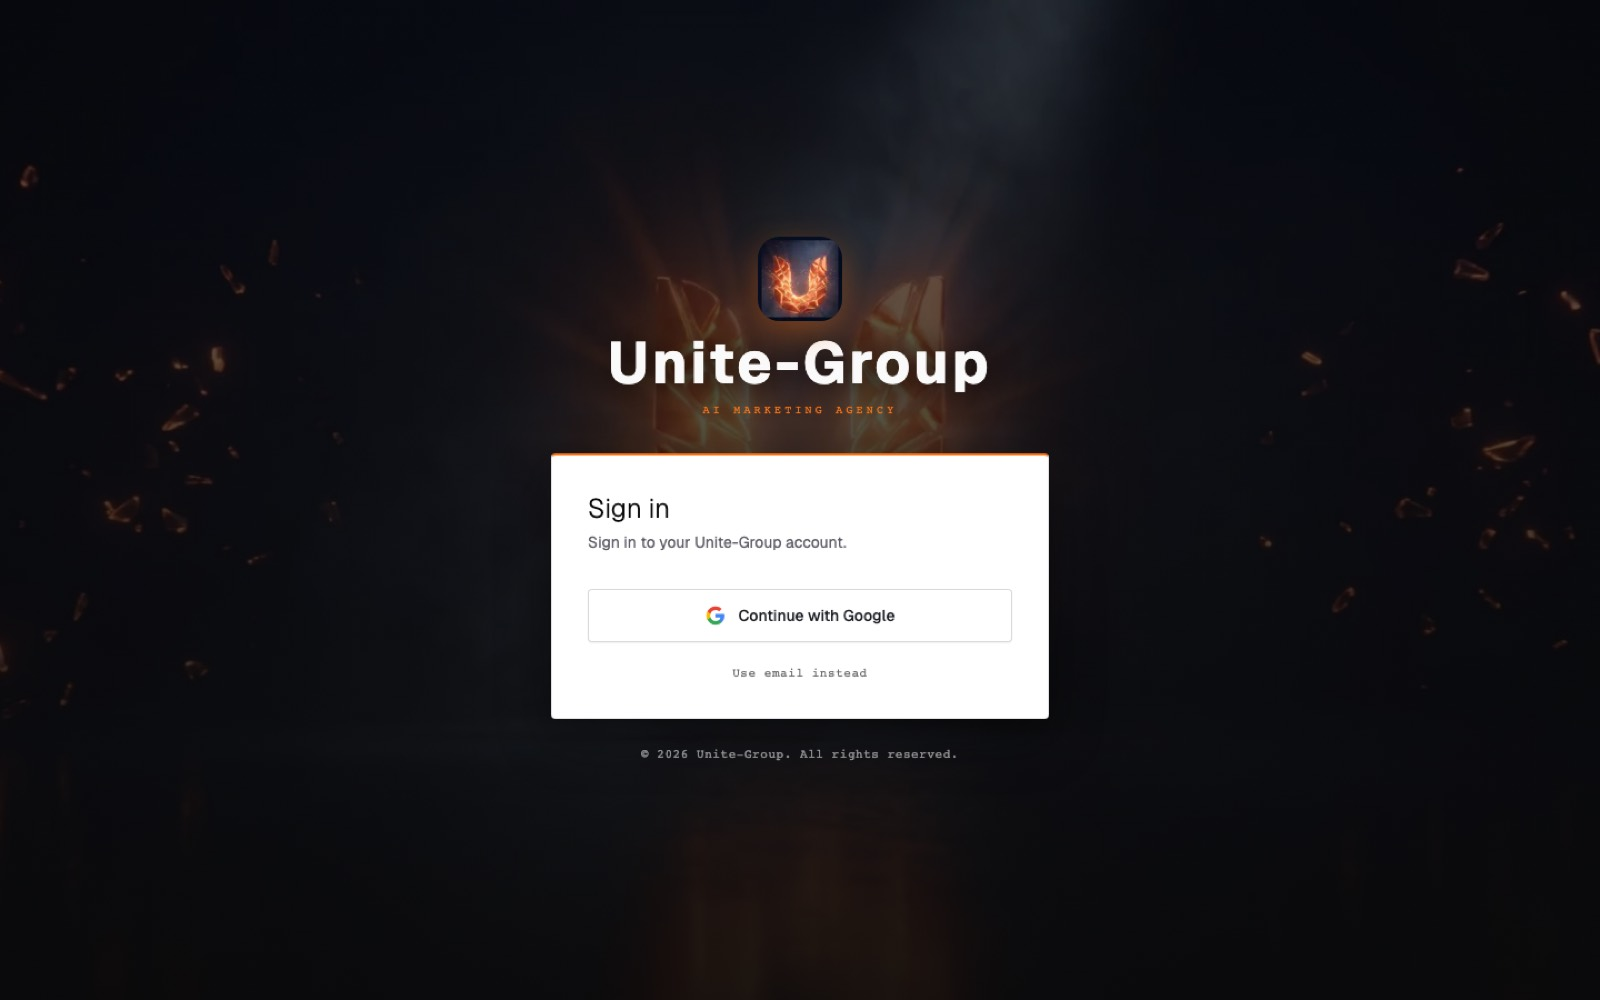
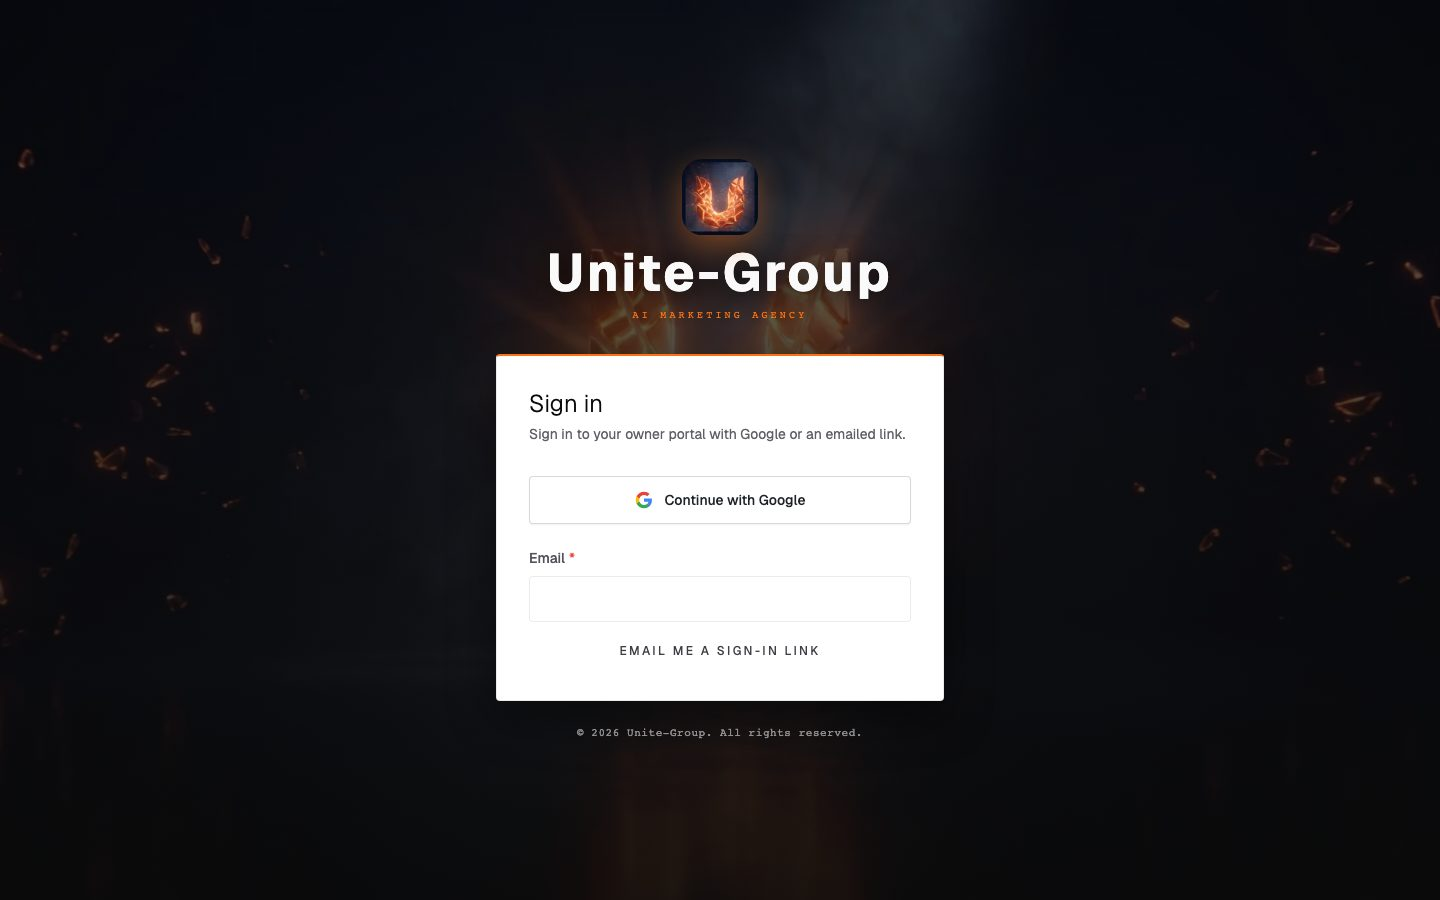
fix(portal): owner sign-in offers only Google and the emailed link (UNI-3174)
Codex review on 346483df: a signed-out owner is sent to the existing
/auth/login page, whose hidden "Use email instead" fallback opens a
password field. That broke the portal promise ("You never give us your
password") on the way in.

- When the return path is the portal, /auth/login shows only "Continue
  with Google" and "Email me a sign-in link": no password field, no
  "Use email instead", no "Forgot password?". Same existing Supabase
  calls; the emailed link returns to /portal and still does not create
  accounts (shouldCreateUser: false, unchanged).
- Every other return path, the founder's included, is unchanged.
- isPortalPath, PORTAL_PATH and PORTAL_LOGIN_URL move to
  src/lib/portal/paths.ts (no server imports), shared by the proxy, the
  portal module and the client sign-in page. Re-exported from the old
  homes, so callers are unchanged.
- New owner-sign-in.test.tsx: portal paths show no password form and pass
  the rendered no-password check; the emailed link returns to /portal;
  founder, no-return-path and /portalx keep the fallback (the rendered
  check fires on it, a positive control).
- Signed-out screenshots retaken (desktop and phone).

Proof: old login page -> 3 owner tests fail (exit 1); isPortalPath forced
true -> 3 founder tests fail (exit 1); restored -> 6/6, byte-identical.
[…]

diff --git a/apps/web/src/app/(auth)/auth/login/__tests__/owner-sign-in.test.tsx b/apps/web/src/app/(auth)/auth/login/__tests__/owner-sign-in.test.tsx
@@ -1,0 +1,75 @@
+import { act, cleanup, fireEvent, render, screen } from '@testing-library/react'
+import { afterEach, beforeEach, describe, expect, it, vi } from 'vitest'
+
+const signInWithOtp = vi.fn(async () => ({ error: null }))
+vi.mock('next/navigation', () => ({ useRouter: () => ({ push: vi.fn() }) }))
+vi.mock('@supabase/ssr', () => ({
+  createBrowserClient: () => ({
+    auth: {
+      signInWithOtp,
+      signInWithPassword: vi.fn(),
+      signInWithOAuth: vi.fn(async () => ({ error: null })),
+      getUser: vi.fn(async () => ({ data: { user: null } })),
+    },
+  }),
+}))
+
+import { renderedFindings } from '@/__tests__/portal-forbidden-words'
+import { PORTAL_LOGIN_URL } from '@/lib/portal/paths'
+
+import LoginPage from '../page'
+
+// The portal promises "You never give us your password", and a signed-out owner is sent here first
+// (the portal layout redirects to PORTAL_LOGIN_URL). So on the way to /portal this page must not offer a password.
+async function open(search: string) {
+  window.history.replaceState(null, '', `/auth/login${search}`)
+  const view = render(<LoginPage />)
+  await act(async () => {})
+  return view
+}
+
+beforeEach(() => vi.clearAllMocks())
+afterEach(() => cleanup())
+
+describe('sign-in on the way to the owner portal', () => {
+  it.each([
+    ['the portal login link', PORTAL_LOGIN_URL.slice('/auth/login'.length)],
+    ['a page beneath the portal', '?redirectTo=%2Fportal%2Fsettings'],
+  ])('offers only Google and the emailed link for %s', async (_name, search) => {
+    const { container } = await open(search)
+    expect(screen.getByText('Continue with Google')).toBeTruthy()
+    expect(screen.getByText('Email me a sign-in link')).toBeTruthy()
+    expect(container.querySelector('input[type="password"]')).toBeNull()
+    expect(screen.queryByText('Use email instead')).toBeNull()
+    expect(screen.queryByText(/forgot/i)).toBeNull()
+    expect(renderedFindings(container.innerHTML)).toEqual([])
+  })
+
+  it('sends the emailed link back to the portal, for an existing account only', async () => {
+    const { container } = await open(PORTAL_LOGIN_URL.slice('/auth/login'.length))
+    fireEvent.change(container.querySelector('#login-email') as HTMLInputElement, { target: { value: 'sam@example.test' } })
+    await act(async () => {
+      fireEvent.click(screen.getByText('Email me a sign-in link'))
+    })
+    expect(signInWithOtp).toHaveBeenCalledTimes(1)
+    const [{ email, options }] = signInWithOtp.mock.calls[0] as unknown as [{ email: string; options: { emailRedirectTo: string; shouldCreateUser: boolean } }]
+    expect(email).toBe('sam@example.test')
+    expect(new URL(options.emailRedirectTo).searchParams.get('next')).toBe('/portal')
+    expect(options.shouldCreateUser).toBe(false)
+  })
+
+  // The founder's page is unchanged: the hidden email-and-password fallback is still there. This is also the
+  // positive control for the rendered check: it must fire on the real password form.
+  it.each([
+    ['no return path', ''],
+    ['the founder area', '?redirectTo=%2Ffounder%2Fcommand-centre'],
+    ['a look-alike of the portal', '?redirectTo=%2Fportalx'],
+  ])('keeps the founder fallback for %s', async (_name, search) => {
+    const { container } = await open(search)
+    expect(container.querySelector('input[type="password"]')).toBeNull()
+    fireEvent.click(screen.getByText('Use email instead'))
+    expect(container.querySelector('input[type="password"]')).not.toBeNull()
+    expect(screen.getByText('Forgot password?')).toBeTruthy()
+    expect(renderedFindings(container.innerHTML).length).toBeGreaterThan(0)
+  })
+})

diff --git a/apps/web/src/app/(auth)/auth/login/page.tsx b/apps/web/src/app/(auth)/auth/login/page.tsx
@@ -7,6 +7,7 @@ import { createBrowserClient } from "@supabase/ssr";
 import Input from "@/components/ui/input";
 import Button from "@/components/ui/button";
 import { buildEmailLinkOptions, buildGoogleSignInOptions } from "@/lib/auth/google-oauth-options";
+import { isPortalPath } from "@/lib/portal/paths";
 
 function getSupabase() {
   return createBrowserClient(
@@ -66,6 +67,11 @@ export default function LoginPage() {
     const params = new URLSearchParams(queryString);
     return normaliseRedirectPath(params.get("redirectTo"));
   }, [queryString]);
+
+  // A business owner heading to their portal was promised "You never give us your password", so they get Google
+  // and the emailed sign-in link only: no password field, no forgot-password link. Everyone else, the founder
+  // included, keeps the page exactly as it was.
+  const ownerSignIn = isPortalPath(redirectPath);
 
   useEffect(() => {
     const params = new URLSearchParams(queryString);
@@ -164,7 +170,7 @@ export default function LoginPage() {
         Sign in
       </h1>
       <p className="text-sm mb-8" style={{ color: "var(--color-text-muted)" }}>
-        Sign in to your Unite-Group account.
+        {ownerSignIn ? "Sign in to your owner portal with Google or an emailed link." : "Sign in to your Unite-Group account."}
       </p>
 
       {error && (
@@ -196,8 +202,32 @@ export default function LoginPage() {
         {googleLoading ? "Redirecting…" : "Continue with Google"}
       </button>
 
-      {/* Email fallback — hidden by default; only here so a Google outage can't lock you out */}
-      {!showEmail ? (
+      {ownerSignIn ? (
+        <div className="mt-6 space-y-3">
+          <Input
+            id="login-email"
+            label="Email"
+            type="email"
+            value={email}
+            onChange={(e) => setEmail(e.target.value)}
+            required
+            autoComplete="email"
+          />
+          <Button
+            type="button"
+            variant="secondary"
+            size="md"
+            fullWidth
+            loading={linkLoading}
+            disabled={googleLoading}
+            onClick={handleEmailLink}
+            className="text-xs uppercase tracking-[0.2em]"
+          >
+            Email me a sign-in link
+          </Button>
+        </div>
+      ) : /* Email fallback — hidden by default; only here so a Google outage can't lock you out */
+      !showEmail ? (
         <button
           type="button"
           onClick={() => setShowEmail(true)}

diff --git a/apps/web/src/proxy.ts b/apps/web/src/proxy.ts
@@ -10,6 +10,7 @@
 import { NextResponse, type NextRequest } from 'next/server';
 import { updateSession } from '@/lib/supabase/middleware';
 import { checkRateLimit } from '@/lib/middleware/rate-limit';
+import { isPortalPath } from '@/lib/portal/paths';
 import { hasPrivateAccess, isPrivateAccessConfigured } from '@/lib/auth/private-access';
 
 const isDev = process.env.NODE_ENV === 'development';
@@ -137,9 +138,7 @@ function isProtectedRoot(pathname: string): boolean {
 // The business-owner portal: exactly /portal and pages beneath it (not '/portalx', not '/portal-admin').
 // A signed-in visitor here skips the founder allow-list below; the (portal) layout then admits only card owners
 // (src/lib/portal/owner.ts). Pages only: the portal has no API routes, so founder APIs keep the allow-list.
-export function isPortalPath(pathname: string): boolean {
-  return pathname === '/portal' || pathname.startsWith('/portal/');
-}
+export { isPortalPath };
 
 // These exact POST handlers authenticate their own bearer or enrolled signature.
 // Cookies grant no transport authority; siblings and descendants stay private.

diff --git a/apps/web/src/lib/portal/paths.ts b/apps/web/src/lib/portal/paths.ts
@@ -1,0 +1,10 @@
+// The business-owner portal's paths. No server imports, so the proxy, the server portal module and the client
+// sign-in page all share this one definition.
+
+export const PORTAL_PATH = '/portal'
+export const PORTAL_LOGIN_URL = `/auth/login?redirectTo=${encodeURIComponent(PORTAL_PATH)}`
+
+/** Exactly /portal and pages beneath it (not '/portalx', not '/portal-admin'). */
+export function isPortalPath(pathname: string): boolean {
+  return pathname === PORTAL_PATH || pathname.startsWith(`${PORTAL_PATH}/`)
+}

diff --git a/apps/web/src/lib/portal/owner.ts b/apps/web/src/lib/portal/owner.ts
@@ -69,5 +69,4 @@ export const getPortalOwner = cache(async function getPortalOwner(): Promise<Por
   return resolvePortalAccess(user, client)
 })
 
-export const PORTAL_PATH = '/portal'
-export const PORTAL_LOGIN_URL = `/auth/login?redirectTo=${encodeURIComponent(PORTAL_PATH)}`
+export { PORTAL_LOGIN_URL, PORTAL_PATH } from './paths'

diff --git a/evidence/portal-s1/README.md b/evidence/portal-s1/README.md
@@ -6,7 +6,9 @@ Rendered by Playwright Chromium against `next dev` on the portal code of commit 
   temporary local-only page because there is no test owner account to sign in with. The scratch page was deleted and
   never committed.
 - `portal-no-portal-yet-*`: the real `NoPortalYet` component, same method.
-- `portal-signed-out-redirect-desktop`: a live, signed-out request to `/portal`, which the proxy sent to
-  `/auth/login?redirectTo=%2Fportal`.
+- `portal-signed-out-redirect-desktop` and `-phone`: a live, signed-out request to `/portal`, which the proxy sent to
+  `/auth/login?redirectTo=%2Fportal`. Retaken on 02/11/2026 after the owner sign-in change: the page shows only
+  "Continue with Google" and "Email me a sign-in link". The capture script counted 0 password fields and 0
+  "Use email instead" buttons at both sizes.
 
 Imagery is the existing generated Unite-Group hero still (`public/landing/media/unite-group-hero-u-poster-16x9.jpg`).
